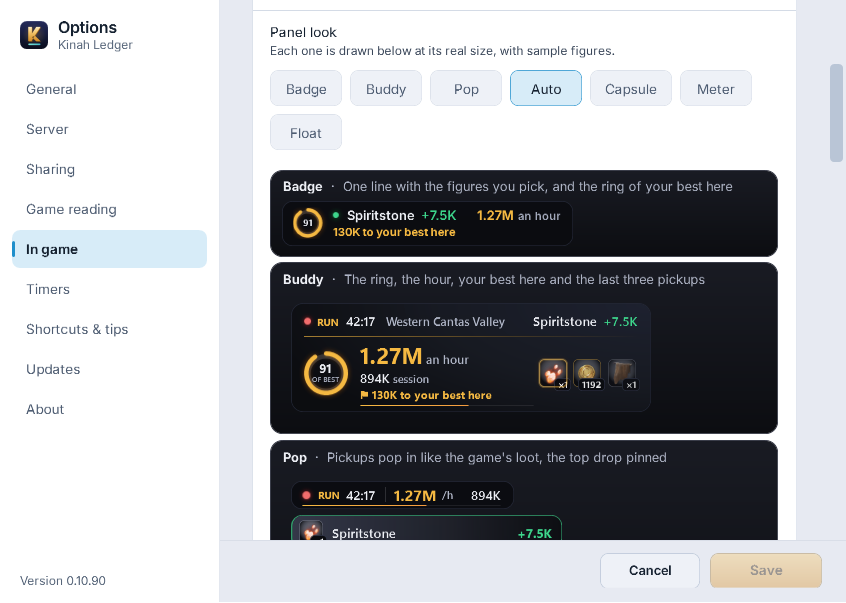
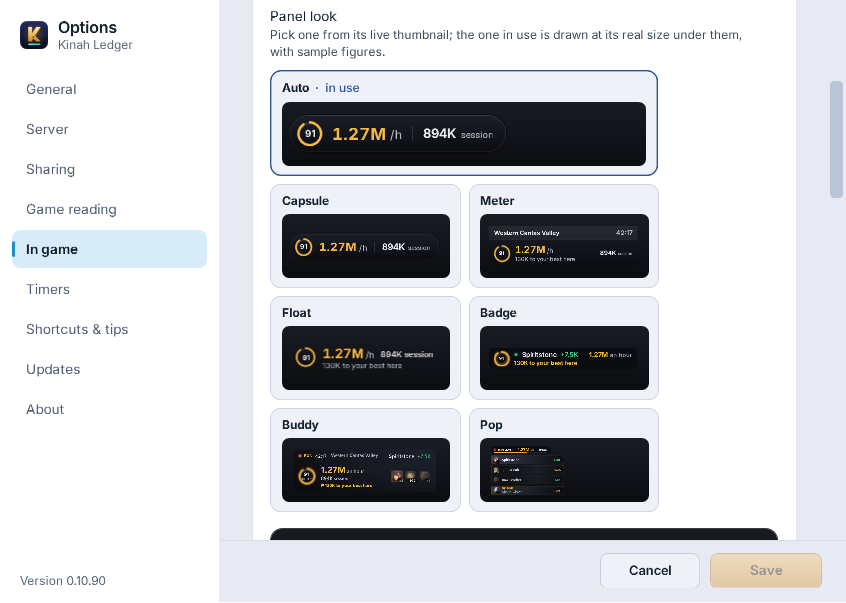
Overlay looks: Auto for players on the old default, new looks first, live thumbnails
A hud.json still on the old default (Badge) moves to Auto once; Buddy and
Pop, picked by hand, stay, and Badge picked again after the move stays.
Settings lists Auto, Capsule, Meter and Float first, then Badge, Buddy and
Pop, each as a live thumbnail to click, with the one in use drawn at its
real size under them. The figures that tick (the rolling DPS) are tabular
and the DPS keeps a fixed width, so the line never twitches.

diff --git a/tracker/KinahLedger.Tracker/Ui/OptionsWindow.xaml b/tracker/KinahLedger.Tracker/Ui/OptionsWindow.xaml
@@ -476,7 +476,7 @@
               <!-- the panel's look: the Strip, the Card or the Ticker, each drawn below at its real size from sample figures -->
               <StackPanel Margin="18,13,18,15">
                 <TextBlock Style="{StaticResource RowTitle}" Text="Panel look"/>
-                <TextBlock Style="{StaticResource RowHint}" Text="Each one is drawn below at its real size, with sample figures."/>
+                <TextBlock Style="{StaticResource RowHint}" Text="Pick one from its live thumbnail; the one in use is drawn at its real size under them, with sample figures."/>
                 <WrapPanel x:Name="HudLookHost" Margin="0,10,0,0"/>
                 <StackPanel x:Name="HudLookPreview" Margin="0,6,0,0"/>
               </StackPanel>

diff --git a/tracker/KinahLedger.Tracker/Ui/OptionsWindow.xaml.cs b/tracker/KinahLedger.Tracker/Ui/OptionsWindow.xaml.cs
@@ -189,38 +189,61 @@ public partial class OptionsWindow : Window
     /// </summary>
     void BuildHudLooks(string current)
     {
+        // a live thumbnail of each look (2026-11-14), drawn from the window's sample figures and picked with a click; the
+        // one in use is outlined, and drawn again at its real size under them with what it shows
         current = HudLooks.Parse(current);
         HudLookHost.Children.Clear();
-        foreach (var l in HudLooks.All)
-        {
-            var key = l.Key;
-            HudLookHost.Children.Add(_host.Chip(l.Name, current == key, () => PickHudLook(key), l.Hint));
-        }
-        HudLookPreview.Children.Clear();
         var sample = _host.HudSample();
+        var fields = HudFields.Parse(_edit.HudFields);
+        var scene = new LinearGradientBrush(Color.FromRgb(0x19, 0x1B, 0x23), Color.FromRgb(0x0C, 0x0D, 0x11), 90);   // a dark game scene, whatever the window's skin
+        scene.Freeze();
         foreach (var l in HudLooks.All)
         {
             var key = l.Key;
             bool on = key == current;
             FrameworkElement face;
-            try { face = HudWindow.Preview(key, HudFields.Parse(_edit.HudFields), sample); }
-            catch (Exception ex) { CrashLog.Write("panel look preview", ex); continue; }
-            face.HorizontalAlignment = HorizontalAlignment.Left;
-            // drawn as over the game: a dark scene whatever the window's theme, with the look's name and what it shows
-            var label = new TextBlock { FontSize = 12.5, Margin = new Thickness(2, 0, 0, 6), TextWrapping = TextWrapping.Wrap };
-            label.Inlines.Add(new System.Windows.Documents.Run(l.Name) { FontWeight = FontWeights.ExtraBold, Foreground = new SolidColorBrush(Color.FromRgb(0xED, 0xEF, 0xF5)) });
-            label.Inlines.Add(new System.Windows.Documents.Run((on ? "  ·  in use  ·  " : "  ·  ") + l.Hint) { Foreground = new SolidColorBrush(on ? Color.FromRgb(0xC9, 0xD6, 0xF7) : Color.FromRgb(0xAF, 0xB5, 0xC6)) });
-            var scene = new LinearGradientBrush(Color.FromRgb(0x19, 0x1B, 0x23), Color.FromRgb(0x0C, 0x0D, 0x11), 90);   // a dark game scene, whatever the window's skin
-            var box = new Border
+            try { face = HudWindow.Preview(key, fields, sample); }
+            catch (Exception ex) { CrashLog.Write("panel look thumbnail", ex); continue; }
+            var thumb = new Viewbox { Child = face, Stretch = Stretch.Uniform, StretchDirection = StretchDirection.DownOnly, MaxWidth = key == HudLooks.Auto ? 340 : 150, Height = 54, HorizontalAlignment = HorizontalAlignment.Left, VerticalAlignment = VerticalAlignment.Center };
+            // the look on a small dark game scene, whatever the window's skin; the card and its name in the skin's own tones
+            var stage = new Border { Child = thumb, Background = scene, CornerRadius = new CornerRadius(7), Padding = new Thickness(8, 5, 8, 5), HorizontalAlignment = HorizontalAlignment.Stretch };
+            var name = new TextBlock { FontSize = 12, FontWeight = FontWeights.Bold, Margin = new Thickness(0, 0, 0, 6) };
+            name.SetResourceReference(TextBlock.ForegroundProperty, "Ink");
+            name.Inlines.Add(new System.Windows.Documents.Run(l.Name));
+            if (on) { var r = new System.Windows.Documents.Run("  ·  in use") { FontWeight = FontWeights.Medium }; r.SetResourceReference(System.Windows.Documents.TextElement.ForegroundProperty, "Link"); name.Inlines.Add(r); }
+            var card = new Border
             {
-                CornerRadius = new CornerRadius(12), Padding = new Thickness(10, 9, 10, 10), Margin = new Thickness(0, 6, 0, 0), Background = scene, Cursor = Cursors.Hand,
-                BorderThickness = new Thickness(on ? 2 : 1), BorderBrush = new SolidColorBrush(on ? Color.FromRgb(0x9D, 0xB2, 0xE8) : Color.FromRgb(0x23, 0x27, 0x36)),   // the one in use: the link tone (gold until the colour pass)
-                Child = new StackPanel { Children = { label, face } }, ToolTip = on ? null : "Use the " + l.Name,
+                Width = key == HudLooks.Auto ? 388 : 190, CornerRadius = new CornerRadius(10), Margin = new Thickness(0, 0, 8, 8), Cursor = Cursors.Hand,   // Auto, the default, across the row: the other six two by two
+                BorderThickness = new Thickness(on ? 2 : 1),
+                Child = new StackPanel { Margin = new Thickness(10, 8, 10, 9), Children = { name, stage } },
             };
-            System.Windows.Automation.AutomationProperties.SetName(box, l.Name + " panel look");
-            box.MouseLeftButtonUp += (_, _) => PickHudLook(key);
-            HudLookPreview.Children.Add(box);
+            card.SetResourceReference(Border.BackgroundProperty, "Card2");
+            card.SetResourceReference(Border.BorderBrushProperty, on ? "Link" : "LineStrong");
+            // the card itself is the pick (a Button's own style would draw its frame over the card in Daylight): a click, or
+            // Enter or Space with the keyboard
+            card.ToolTip = l.Hint; card.Focusable = true; card.Tag = key;
+            card.FocusVisualStyle = (Style)FindResource("FocusRing");
+            System.Windows.Automation.AutomationProperties.SetName(card, l.Name + " panel look" + (on ? ", in use" : ""));
+            card.MouseLeftButtonUp += (_, _) => PickHudLook(key);
+            card.KeyDown += (_, e) => { if (e.Key is Key.Enter or Key.Space) { PickHudLook(key); e.Handled = true; } };
+            HudLookHost.Children.Add(card);
         }
+        HudLookPreview.Children.Clear();
+        var chosen = HudLooks.All.First(x => x.Key == current);
+        try
+        {
+            var big = HudWindow.Preview(current, fields, sample);
+            big.HorizontalAlignment = HorizontalAlignment.Left;
+            var label = new TextBlock { FontSize = 12.5, Margin = new Thickness(2, 0, 0, 6), TextWrapping = TextWrapping.Wrap };
+            label.Inlines.Add(new System.Windows.Documents.Run(chosen.Name) { FontWeight = FontWeights.ExtraBold, Foreground = new SolidColorBrush(Color.FromRgb(0xED, 0xEF, 0xF5)) });
+            label.Inlines.Add(new System.Windows.Documents.Run("  ·  at its real size  ·  " + chosen.Hint) { Foreground = new SolidColorBrush(Color.FromRgb(0xAF, 0xB5, 0xC6)) });
+            HudLookPreview.Children.Add(new Border
+            {
+                CornerRadius = new CornerRadius(12), Padding = new Thickness(10, 9, 10, 10), Margin = new Thickness(0, 2, 0, 0), Background = scene,
+                BorderThickness = new Thickness(1), BorderBrush = new SolidColorBrush(Color.FromRgb(0x23, 0x27, 0x36)), Child = new StackPanel { Children = { label, big } },
+            });
+        }
+        catch (Exception ex) { CrashLog.Write("panel look preview", ex); }
         bool strip = current == HudLooks.Strip;
         HudFieldHost.IsEnabled = strip;
         HudFieldHost.Opacity = strip ? 1 : .45;
@@ -229,6 +252,9 @@ public partial class OptionsWindow : Window
             ? "Back to the left of the target bar, at the top of the game's screen. Pop keeps its own spot."
             : "Back to the top centre of the game's screen, clear of the minimap and the chat.";
     }
+
+    /// <summary>For the options self-test: a look's thumbnail clicked.</summary>
+    internal void PickHudLookForTest(string key) => PickHudLook(key);
 
     void PickHudLook(string key)
     {

diff --git a/tracker/KinahLedger.Tracker/Ui/WpfApp.cs b/tracker/KinahLedger.Tracker/Ui/WpfApp.cs
@@ -210,7 +210,16 @@ public static partial class WpfApp
         o = Open();
         o.Go(OptionsWindow.Page.InGame);
         Check(w.HudLook == HudLooks.Auto && !o.HudFieldHost.IsEnabled, "panel look: Auto by default (the pill, the group's meter above it in a fight); the Strip's figure chips greyed for it");
-        Check(o.HudLookHost.Children.Count == HudLooks.All.Length && o.HudLookPreview.Children.Count == HudLooks.All.Length && HudLooks.All.Length == 7, $"every look drawn in Options, the design pass's Auto, Capsule, Meter and Float too ({o.HudLookPreview.Children.Count} of {HudLooks.All.Length})");
+        Check(o.HudLookHost.Children.Count == HudLooks.All.Length && HudLooks.All.Length == 7 && HudLooks.All[0].Key == HudLooks.Auto && HudLooks.All[4].Key == HudLooks.Strip && o.HudLookPreview.Children.Count == 1,
+            $"every look a live thumbnail in Options, the new ones first (Auto, Capsule, Meter, Float, then Badge, Buddy, Pop), the one in use drawn at its real size ({o.HudLookHost.Children.Count} thumbnails, {o.HudLookPreview.Children.Count} drawn)");
+        {
+            // 0.10.91's move: a hud.json on the old default (Badge) goes to Auto once; Buddy and Pop stay; Badge picked again stays
+            var oldBadge = new HudPrefs { Look = HudLooks.Strip }; bool moved = oldBadge.MoveToAuto();
+            var oldPop = new HudPrefs { Look = HudLooks.Ticker }; oldPop.MoveToAuto();
+            var again = new HudPrefs { Look = HudLooks.Auto }; again.MoveToAuto(); again.Look = HudLooks.Strip; again.MoveToAuto();
+            Check(moved && oldBadge.Look == HudLooks.Auto && oldPop.Look == HudLooks.Ticker && again.Look == HudLooks.Strip && HudLooks.Parse("nonsense") == HudLooks.Auto,
+                $"the old default moves to Auto once (Badge to {oldBadge.Look}); Pop stays ({oldPop.Look}); Badge picked again stays ({again.Look}); an unknown look is Auto");
+        }
         // the design pass's looks (Ui/HudStackLooks.cs) draw the timer due and the fight themselves: the window's own timer line
         // and Parser section stay folded, and the look shows the boss, the timer and the hour
         {
@@ -242,17 +251,17 @@ public static partial class WpfApp
             }
             Check(said.All(x => x.EndsWith(": ok")), "Capsule, Meter and Float draw the timer due, the boss fight and the hour themselves, and put the fight away after: " + string.Join("; ", said));
         }
-        Click((System.Windows.Controls.Button)o.HudLookHost.Children[Array.FindIndex(HudLooks.All, l => l.Key == HudLooks.Ticker)]);
+        o.PickHudLookForTest(HudLooks.Ticker);
         Check(o.SaveBtn.IsEnabled && w.HudLook == HudLooks.Auto && !o.HudFieldHost.IsEnabled && o.HudFieldsNote.Visibility == Visibility.Visible, "a panel look waits for Save; the Strip's figures grey out");
         Click(o.SaveBtn);
         DoEvents();
         Check(w.HudLook == HudLooks.Ticker, "panel look saved: " + w.HudLook);
         o = Open();
         o.Go(OptionsWindow.Page.InGame);
-        Click((System.Windows.Controls.Button)o.HudLookHost.Children[0]);
+        o.PickHudLookForTest(HudLooks.Strip);
         Click(o.SaveBtn);
         DoEvents();
-        Check(w.HudLook == HudLooks.Strip, "back to the Strip");
+        Check(w.HudLook == HudLooks.Strip, "Badge picked from its thumbnail");
         // Badge's state lines each start with a sign (2026-11-08 audit: they differed by text colour alone): the stop's flash
         // the stop square, a waiting notice the gold "i", a start the run dot
         static IEnumerable<DependencyObject> BadgeTree(DependencyObject d) { yield return d; foreach (var c in LogicalTreeHelper.GetChildren(d).OfType<DependencyObject>()) foreach (var x in BadgeTree(c)) yield return x; }

diff --git a/tracker/KinahLedger.Tracker/Ui/HudLooks.cs b/tracker/KinahLedger.Tracker/Ui/HudLooks.cs
@@ -20,19 +20,20 @@ public static class HudLooks
 
     public static readonly Look[] All =
     {
-        // the Quest look's names (2026-11-07): Badge is the strip, Buddy the card, Pop the ticker; the keys stay, so hud.json keeps its choice
-        new(Strip, "Badge", "One line with the figures you pick, and the ring of your best here"),
-        new(Card, "Buddy", "The ring, the hour, your best here and the last three pickups"),
-        new(Ticker, "Pop", "Pickups pop in like the game's loot, the top drop pinned"),
-        // the design pass's (2026-11-14, Ui/HudStackLooks.cs): each draws the timers due and the fight itself; Auto mixes the two favourites
+        // the design pass's (2026-11-14, Ui/HudStackLooks.cs) first: each draws the timers due and the fight itself; Auto, the default,
+        // mixes the two favourites
         new(Auto, "Auto", "The pill while you farm; in a boss fight the group's meter opens above it"),
         new(Capsule, "Capsule", "Everything on one pill; a fight drops a slim meter under it"),
         new(Meter, "Meter", "A raid meter: the boss and its HP up top, the group in class colours, your Kinah at the foot"),
         new(Float, "Float", "No panel: crisp figures straight over the game"),
+        // the Quest look's names (2026-11-07): Badge is the strip, Buddy the card, Pop the ticker; the keys stay, so hud.json keeps its choice
+        new(Strip, "Badge", "One line with the figures you pick, and the ring of your best here"),
+        new(Card, "Buddy", "The ring, the hour, your best here and the last three pickups"),
+        new(Ticker, "Pop", "Pickups pop in like the game's loot, the top drop pinned"),
     };
 
-    /// <summary>A saved look, or the Strip for anything unknown (an older or edited hud.json).</summary>
-    public static string Parse(string? saved) => All.FirstOrDefault(l => string.Equals(l.Key, saved, StringComparison.OrdinalIgnoreCase))?.Key ?? Strip;
+    /// <summary>A saved look, or Auto for anything unknown (an older or edited hud.json).</summary>
+    public static string Parse(string? saved) => All.FirstOrDefault(l => string.Equals(l.Key, saved, StringComparison.OrdinalIgnoreCase))?.Key ?? Auto;
 
     /// <summary>How many pickups the window hands the looks ("pick0" to "pick3"): the Card shows three, the Ticker four.</summary>
     public const int Picks = 4;

diff --git a/tracker/KinahLedger.Tracker/Ui/HudPrefs.cs b/tracker/KinahLedger.Tracker/Ui/HudPrefs.cs
@@ -14,6 +14,22 @@ public sealed class HudPrefs
     public double Scale { get; set; } = 1;
     /// <summary>The panel's look (HudLooks: "strip", "card", "ticker"). The strip for everyone until they pick another.</summary>
     public string Look { get; set; } = HudLooks.Auto;   // Auto since 0.10.91: the pill while farming, the group's meter above it in a boss fight
+
+    /// <summary>
+    /// The look has been through 0.10.91's move: a hud.json from before it on the old default (Badge, "strip") goes to Auto,
+    /// once; Buddy and Pop, picked by hand, stay. A Badge picked again after the move stays too.
+    /// </summary>
+    public bool LookMoved { get; set; }
+
+    /// <summary>The move to Auto (see <see cref="LookMoved"/>); true when it changed the look.</summary>
+    public bool MoveToAuto()
+    {
+        if (LookMoved) return false;
+        LookMoved = true;
+        if (!string.Equals(Look, HudLooks.Strip, StringComparison.OrdinalIgnoreCase)) return false;
+        Look = HudLooks.Auto;
+        return true;
+    }
     /// <summary>
     /// Where the player left the Ticker, kept apart from the strip's and the Card's spot (UserPrefs.HudX/HudY): its toasts
     /// hang down, so its place is left of the target bar, not over it. Null until it is dragged.
@@ -57,10 +73,14 @@ public sealed class HudPrefs
         try
         {
             var p = PathFor();
-            if (File.Exists(p) && JsonSerializer.Deserialize<HudPrefs>(File.ReadAllText(p)) is { } saved) return saved;
+            if (File.Exists(p) && JsonSerializer.Deserialize<HudPrefs>(File.ReadAllText(p)) is { } saved)
+            {
+                if (!saved.LookMoved) { saved.MoveToAuto(); saved.Save(); }   // 0.10.91: the old default moves to Auto, once
+                return saved;
+            }
         }
         catch (Exception) { /* corrupt: decide again */ }
-        var fresh = new HudPrefs { Locked = !existingInstall };
+        var fresh = new HudPrefs { Locked = !existingInstall, LookMoved = true };
         fresh.Save();
         return fresh;
     }

diff --git a/tracker/KinahLedger.Tracker/Ui/HudStackLooks.cs b/tracker/KinahLedger.Tracker/Ui/HudStackLooks.cs
@@ -58,7 +58,11 @@ abstract class HudStackLook : IHudLook, IHudStackLook
     protected static StackPanel Fig(string big, string unit, Brush fg, double size)
     {
         var sp = new StackPanel { Orientation = Orientation.Horizontal, VerticalAlignment = VerticalAlignment.Center };
-        sp.Children.Add(Tx(big, size, fg, FontWeights.Bold));
+        var t = Tx(big, size, fg, FontWeights.Bold);
+        System.Windows.Documents.Typography.SetNumeralAlignment(t, FontNumeralAlignment.Tabular);
+        // your DPS rolls up to ten times a second (the Parser's rolling DPS): a fixed width, so the words after it never shift
+        if (unit == "DPS") { t.MinWidth = Math.Round(size * 2.9); t.TextAlignment = TextAlignment.Right; }
+        sp.Children.Add(t);
         if (unit.Length > 0) { var u = Tx(unit, Math.Round(size * 0.68, 1), Muted, FontWeights.Medium); u.Margin = new Thickness(4, Math.Round(size * 0.18), 0, 0); sp.Children.Add(u); }
         return sp;
     }

diff --git a/tracker/KinahLedger.Tracker/Ui/HudWindow.cs b/tracker/KinahLedger.Tracker/Ui/HudWindow.cs
@@ -161,7 +161,7 @@ public sealed partial class HudWindow : Window
         FontFamily = HudKit.Text;   // Nunito, the window's face (the Quest look)
         FontWeight = FontWeights.Medium;
         TextOptions.SetTextFormattingMode(this, TextFormattingMode.Display);
-        if (HudGlass.OldLooks) System.Windows.Documents.Typography.SetNumeralAlignment(this, FontNumeralAlignment.Tabular);   // figures that tick never shift the line
+        if (HudGlass.OldLooks || _look is IHudStackLook) System.Windows.Documents.Typography.SetNumeralAlignment(this, FontNumeralAlignment.Tabular);   // figures that tick never shift the line
         // top-centre by default: the top-right belongs to the minimap and its zone title, the bottom-left to the chat
         Left = SystemParameters.WorkArea.Left + SystemParameters.WorkArea.Width / 2 - 260; Top = SystemParameters.WorkArea.Top + 12;
 
